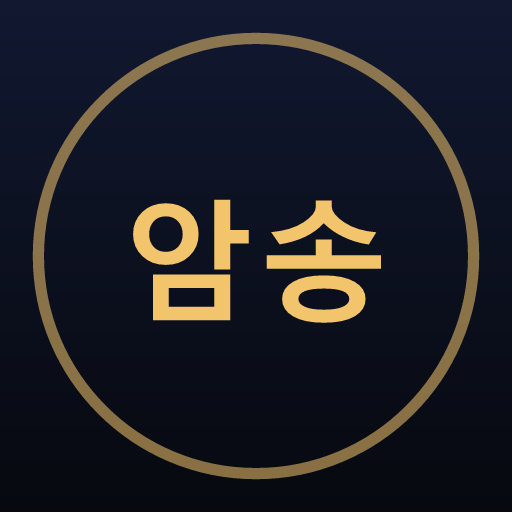
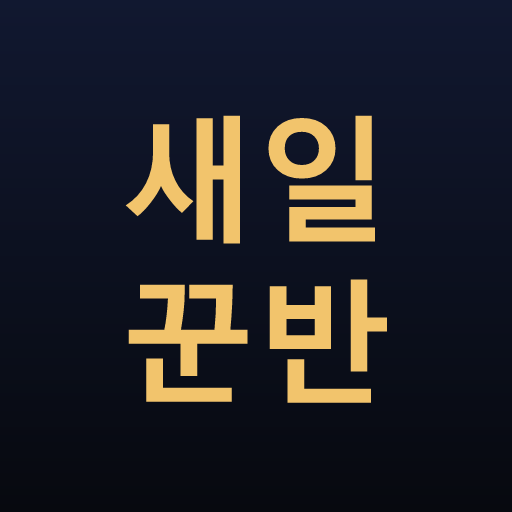
헤더에 교회 로고 표시, 앱 아이콘 문구를 "새일꾼반" 으로 변경
- 헤더의 "Sarang Community Church" 텍스트를 로고 이미지로 교체.
  흰 글자 로고라 다크 배경에서 그대로 읽힌다. 높이 30px
- 아이콘 4종을 "암송" → "새일꾼반" 으로 재생성. 4글자를 한 줄에 넣으면
  홈 화면 크기에서 읽기 어려워 2×2 로 쌓았다
- 마스커블 아이콘은 안드로이드가 가장자리를 잘라내므로 글자를 80% 로 축소
- sw.js: 로고를 프리캐시에 추가하고 SHELL_VER 를 v2 로 올림.
  파일명이 같아 버전을 올리지 않으면 기존 사용자가 옛 아이콘을 계속 본다.
  음성 캐시(mv-audio-v1)는 그대로라 22MB 를 다시 받지 않는다
- 아이콘 생성 스크립트를 Docs/make-icons.mjs 로 보관

Changed region(s): [[0.25, 0.2188, 0.7812, 0.8125], [0.0625, 0.0625, 0.9375, 0.9375]]

diff --git a/index.html b/index.html
@@ -70,14 +70,11 @@
             text-align: center;
             backdrop-filter: blur(10px);
         }
-        .header-label {
-            font-size: 0.68rem;
-            font-weight: 600;
-            letter-spacing: 0.22em;
-            color: var(--accent);
-            opacity: 0.75;
-            text-transform: uppercase;
-            margin-bottom: 3px;
+        .header-logo {
+            display: block;
+            height: 30px;
+            width: auto;
+            margin: 0 auto 8px;
         }
         .header h1 {
             font-size: 1.15rem;
@@ -530,7 +527,8 @@
 
     <!-- Header -->
     <div class="header">
-        <div class="header-label">Sarang Community Church</div>
+        <img class="header-logo" src="logo_Sarang.png" alt="남가주사랑의교회"
+             width="496" height="115">
         <h1>새일꾼반 성경암송</h1>
 
         <!-- Language / Voice Selector -->

diff --git a/sw.js b/sw.js
@@ -9,7 +9,7 @@
  *  음성 캐시(AUDIO)는 파일명이 바뀌지 않는 한 그대로 유지합니다.
  */
 
-const SHELL_VER = 'v1';
+const SHELL_VER = 'v2';   // 아이콘 교체·로고 추가로 갱신
 const SHELL = `mv-shell-${SHELL_VER}`;
 const AUDIO = 'mv-audio-v1';
 const FONT  = 'mv-font-v1';
@@ -22,6 +22,7 @@ const SHELL_FILES = [
   './icon-512.png',
   './icon-maskable-512.png',
   './apple-touch-icon.png',
+  './logo_Sarang.png',
 ];
 
 self.addEventListener('install', (e) => {

diff --git a/README.md b/README.md
@@ -29,6 +29,7 @@ icon-192.png                        # 앱 아이콘
 icon-512.png
 icon-maskable-512.png               # 안드로이드 적응형 아이콘
 apple-touch-icon.png                # iOS 홈 화면 아이콘
+logo_Sarang.png                     # 앱 상단 교회 로고
 Audio/                              # 음성 파일 132개
   T01_Christ_the_Center_KO_F.mp3    # 1주차 주제 · 한국어 여성
   T01_Christ_the_Center_KO_M.mp3    # 1주차 주제 · 한국어 남성
